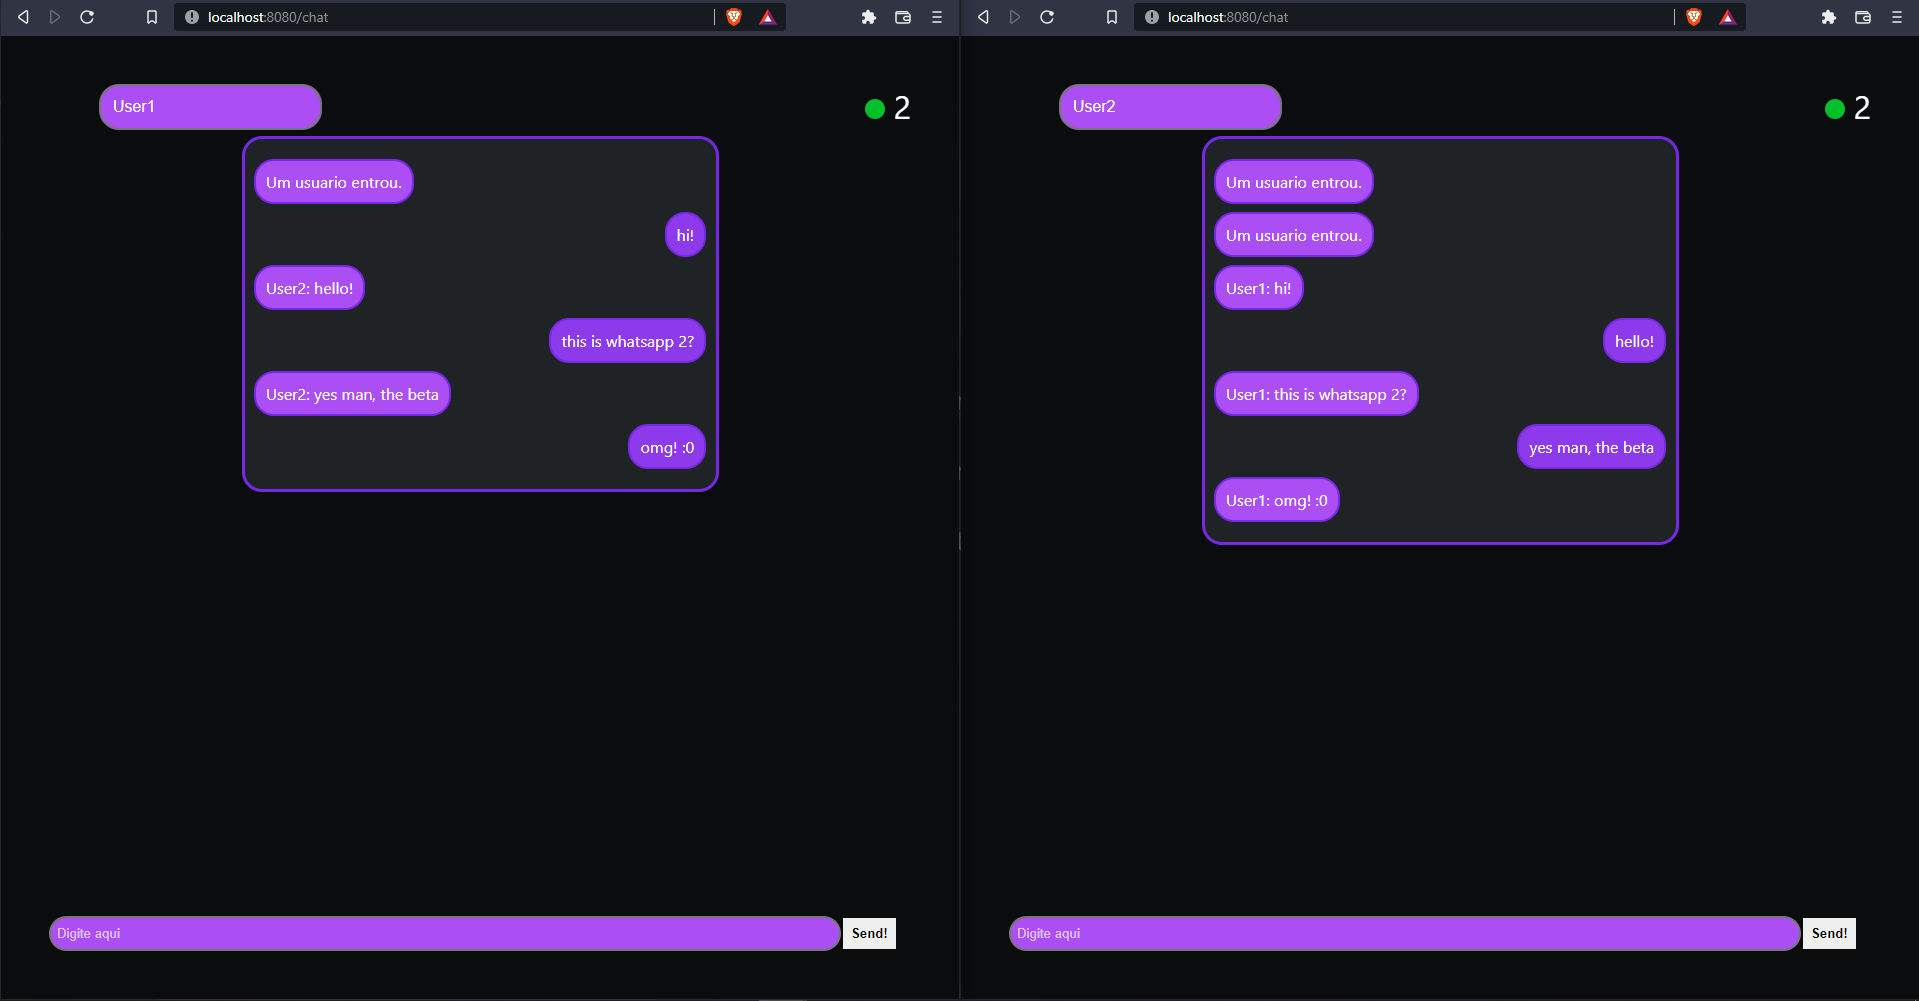
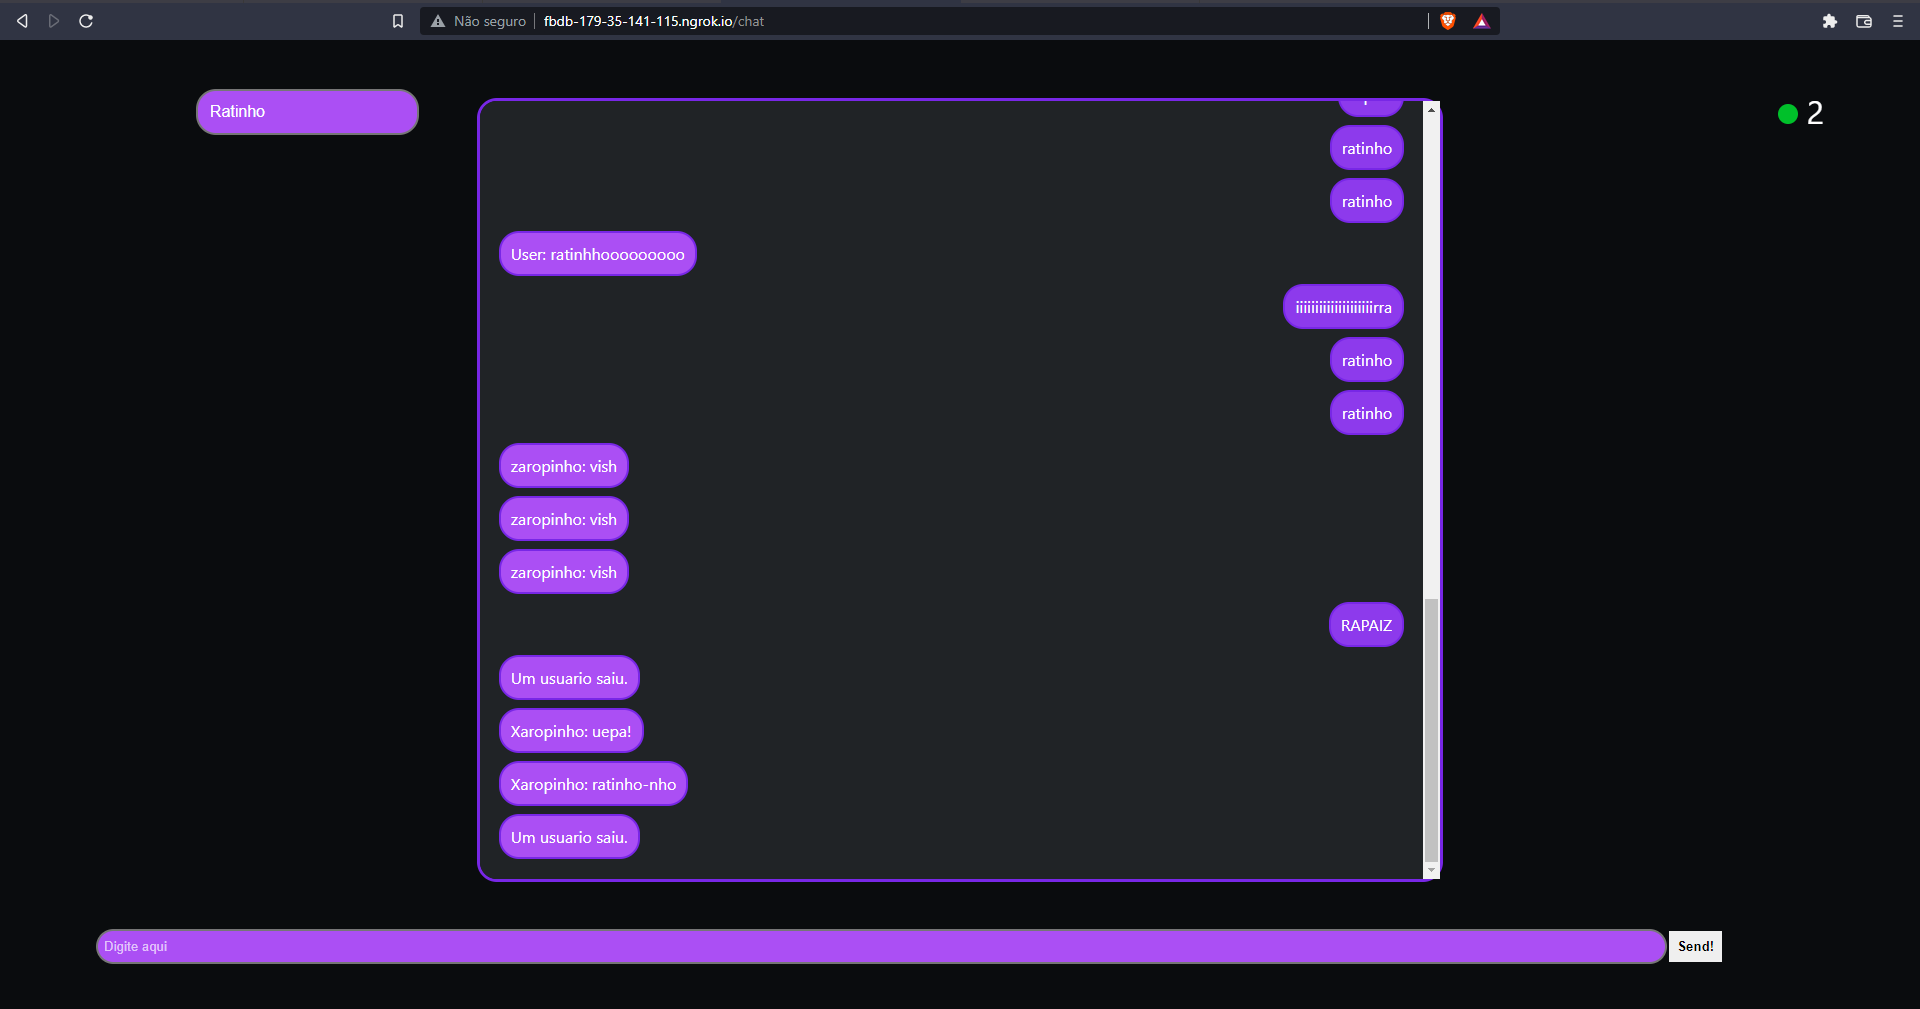
updated

diff --git a/public/css/style.css b/public/css/style.css
@@ -2,18 +2,29 @@ body {
     font-family: -apple-system, BlinkMacSystemFont, "Segoe UI", Roboto, Helvetica, Arial, sans-serif;
     background-color: #0a0c0e;
     color: white;
+    overflow: hidden;
 }
 #messages-container {
     background-color: #202326;
     border: 3px solid #7827E6;
     border-radius: 20px;
-    margin-top: 100px;
+    margin-top: 50px;
     margin-bottom: 100px;
-    margin-left: auto;
-    margin-right: auto;
     height: 80%;
     width: 50%;
+    left: 0; 
+    right: 0; 
+    margin-left: auto; 
+    margin-right: auto;
+    position: absolute;
+
+    overflow-y: scroll;
+    scrollbar-width: none;
     
+}
+
+#messafes-container::-webkit-scrollbar {
+    display: none;
 }
 
 /* flex container */
@@ -87,6 +98,7 @@ body {
     border-style: solid;
     padding: 6px;
     width: 90%;
+    color: #FFF;
 }
 #input-message::placeholder {
     color: rgba(255, 255, 255, 0.651);

diff --git a/public/js/script.js b/public/js/script.js
@@ -3,6 +3,7 @@ var socket = io()
 var form = document.getElementById("form")
 var input = document.getElementById("input-message")
 var username = document.getElementById("username")
+var msgsContainer = document.getElementById("messages-container")
 var msgsList = document.querySelector(".messages")
 var usersOn = document.querySelector(".users-on-count")
 
@@ -13,7 +14,7 @@ function createMessageElement(msg, from_user=false) {
     div.appendChild(item)
     div.className = "messages "+ (from_user === true ? "user-message" : "message")
     msgsList.appendChild(div)
-    window.scrollTo(0, msgsList.scrollHeight)
+    msgsContainer.scrollTo(0, msgsContainer.scrollHeight)
 }
 
 form.addEventListener('submit', (event)=>{ // quando enviar o form
